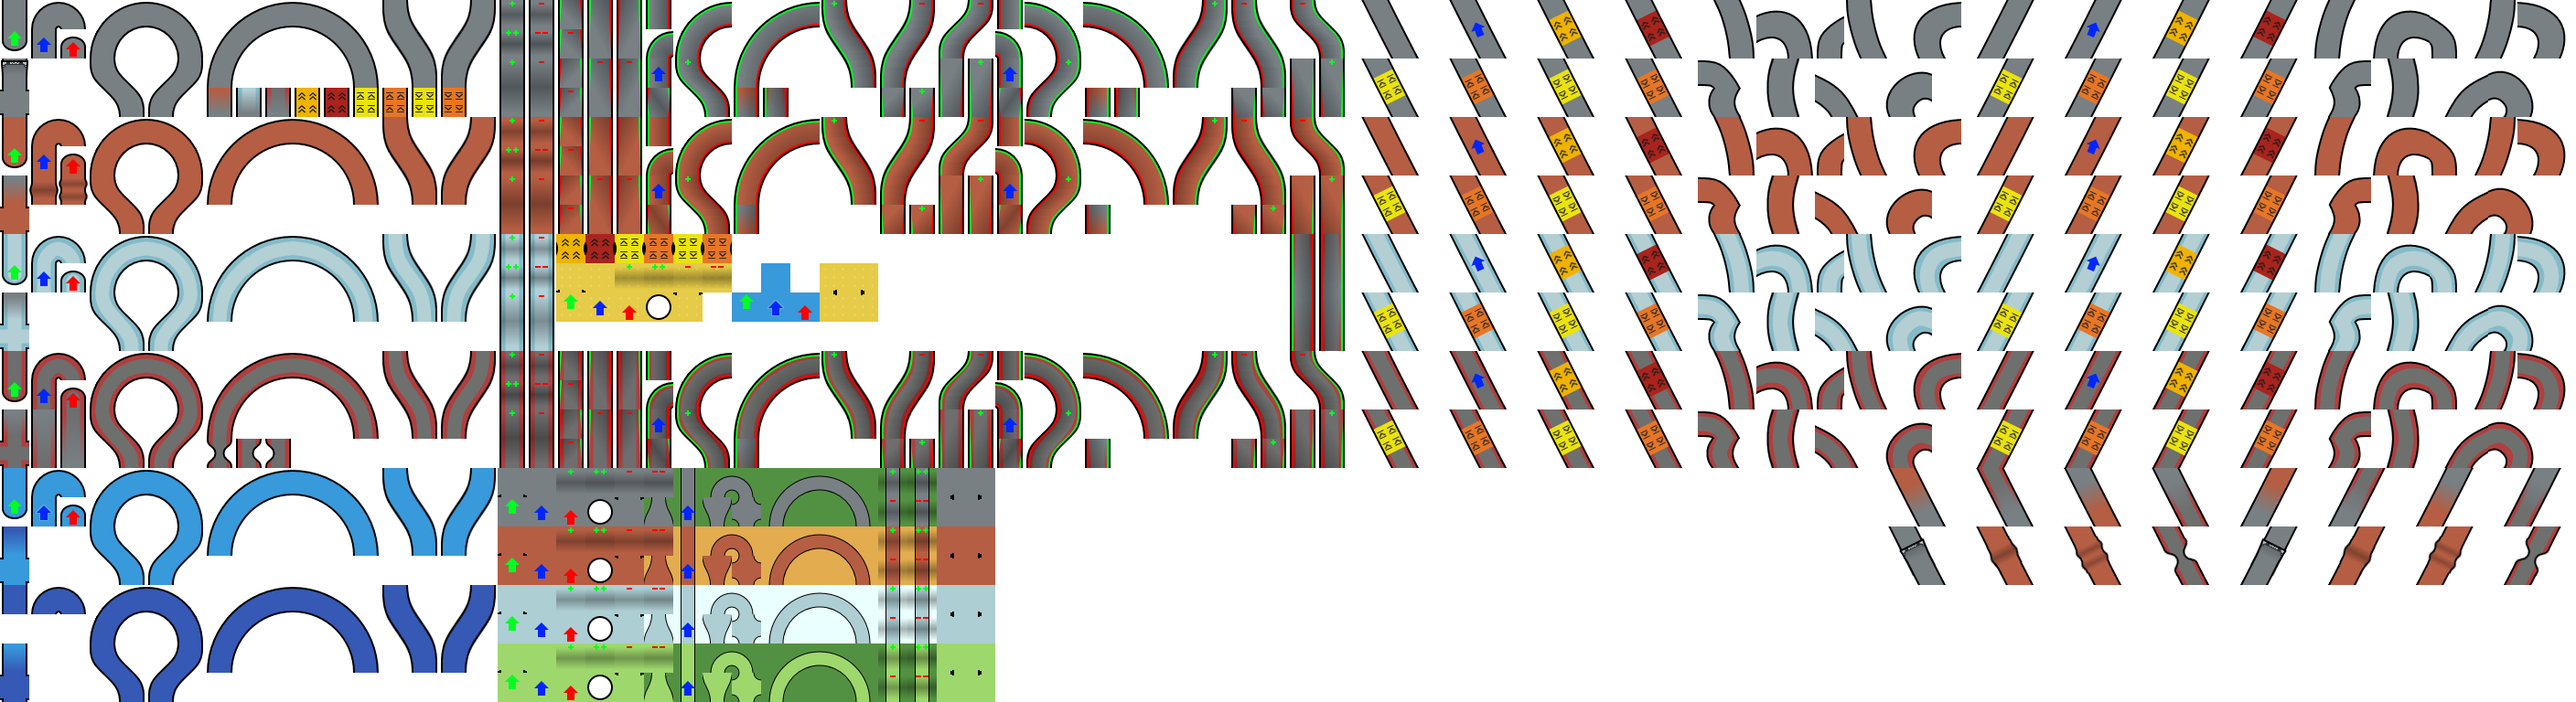
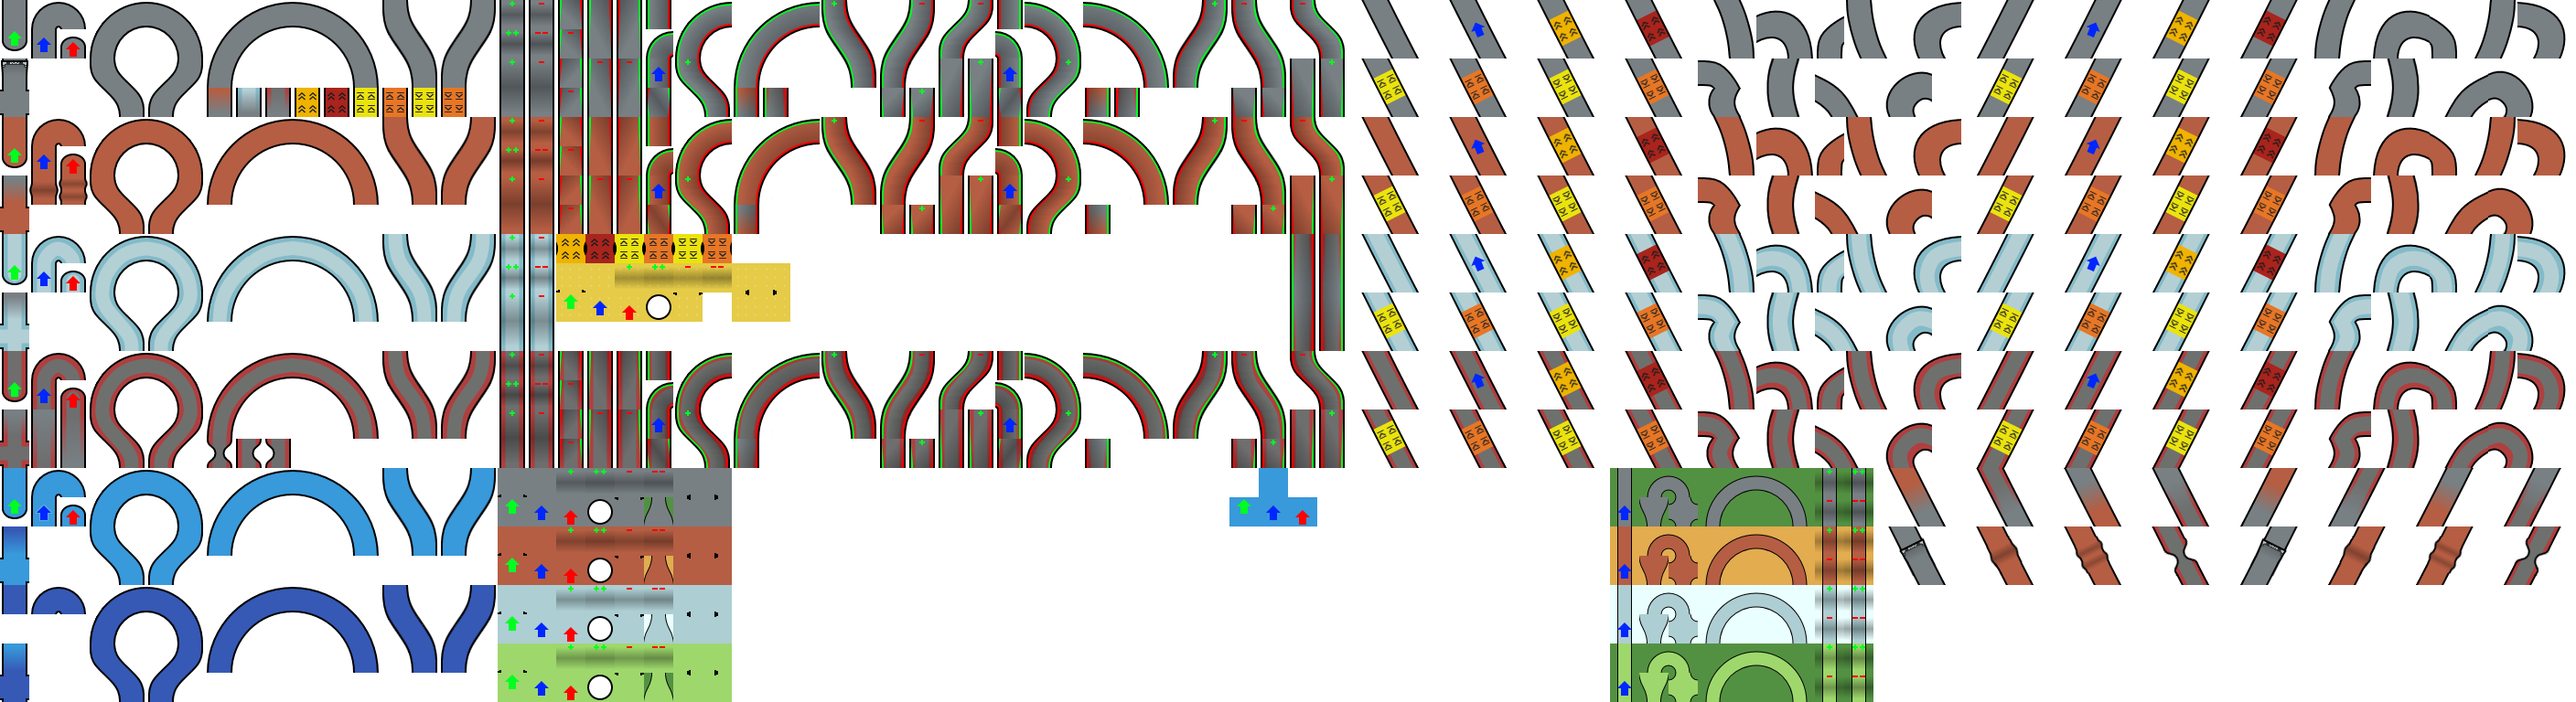
Reorganised block and shoulder pieces

diff --git a/piecetypes.js b/piecetypes.js
@@ -798,7 +798,7 @@ let gShoulderPieceTemplates =
 	straight:
 	{
 		tags: [ "straight" ],
-		imageOffset: new Vector2D(736, 512),
+		imageOffset: new Vector2D(1760, 512),
 		imageDimensions: new Vector2D(32, 32),
 		exitOffset: new Vector3D(0, -1, 0),
 		exitAngle: 0,
@@ -808,7 +808,7 @@ let gShoulderPieceTemplates =
 	cornerRight:
 	{
 		tags: [ "notAfterTurbo" ],
-		imageOffset: new Vector2D(768, 512),
+		imageOffset: new Vector2D(1792, 512),
 		imageDimensions: new Vector2D(32, 32),
 		exitOffset: new Vector3D(1, 0, 0),
 		exitAngle: Math.PI * 0.5,
@@ -816,7 +816,7 @@ let gShoulderPieceTemplates =
 	cornerLeft:
 	{
 		tags: [ "notAfterTurbo" ],
-		imageOffset: new Vector2D(800, 512),
+		imageOffset: new Vector2D(1824, 512),
 		imageDimensions: new Vector2D(32, 32),
 		exitOffset: new Vector3D(-1, 0, 0),
 		exitAngle: Math.PI * -0.5,
@@ -824,7 +824,7 @@ let gShoulderPieceTemplates =
 	checkpoint:
 	{
 		tags: [ "progress", "checkpoint" ],
-		imageOffset: new Vector2D(736, 544),
+		imageOffset: new Vector2D(1760, 544),
 		imageDimensions: new Vector2D(32, 32),
 		exitOffset: new Vector3D(0, -1, 0),
 		exitAngle: 0,
@@ -833,7 +833,7 @@ let gShoulderPieceTemplates =
 	},
 	curveRight:
 	{
-		imageOffset: new Vector2D(832, 512),
+		imageOffset: new Vector2D(1856, 512),
 		imageDimensions: new Vector2D(64, 64),
 		exitOffset: new Vector3D(2, -1, 0),
 		exitAngle: Math.PI * 0.5,
@@ -842,7 +842,7 @@ let gShoulderPieceTemplates =
 	},
 	curveLeft:
 	{
-		imageOffset: new Vector2D(896, 512),
+		imageOffset: new Vector2D(1920, 512),
 		imageDimensions: new Vector2D(64, 64),
 		exitOffset: new Vector3D(-2, -1, 0),
 		exitAngle: Math.PI * -0.5,
@@ -852,7 +852,7 @@ let gShoulderPieceTemplates =
 	rampUpLevelGentle:
 	{
 		tags: [ "ramp", "notAfterTurbo" ],
-		imageOffset: new Vector2D(960, 512),
+		imageOffset: new Vector2D(1984, 512),
 		imageDimensions: new Vector2D(32, 32),
 		exitOffset: new Vector3D(0, -1, 1),
 		exitAngle: 0,
@@ -863,7 +863,7 @@ let gShoulderPieceTemplates =
 	rampUpLevelSteep:
 	{
 		tags: [ "ramp", "notAfterTurbo" ],
-		imageOffset: new Vector2D(992, 512),
+		imageOffset: new Vector2D(2016, 512),
 		imageDimensions: new Vector2D(32, 32),
 		exitOffset: new Vector3D(0, -1, 2),
 		exitAngle: 0,
@@ -874,7 +874,7 @@ let gShoulderPieceTemplates =
 	rampDownLevelGentle:
 	{
 		tags: [ "ramp", "notAfterTurbo" ],
-		imageOffset: new Vector2D(960, 544),
+		imageOffset: new Vector2D(1984, 544),
 		imageDimensions: new Vector2D(32, 32),
 		exitOffset: new Vector3D(0, -1, -1),
 		exitAngle: 0,
@@ -885,7 +885,7 @@ let gShoulderPieceTemplates =
 	rampDownLevelSteep:
 	{
 		tags: [ "ramp", "notAfterTurbo" ],
-		imageOffset: new Vector2D(992, 544),
+		imageOffset: new Vector2D(2016, 544),
 		imageDimensions: new Vector2D(32, 32),
 		exitOffset: new Vector3D(0, -1, -2),
 		exitAngle: 0,
@@ -896,7 +896,7 @@ let gShoulderPieceTemplates =
 	crossroad:
 	{
 		tags: [ "crossroad" ],
-		imageOffset: new Vector2D(800, 544),
+		imageOffset: new Vector2D(1824, 544),
 		imageDimensions: new Vector2D(32, 32),
 		exitOffset: new Vector3D(0, -1, 0),
 		exitAngle: 0,
@@ -1688,7 +1688,7 @@ let gPieceTypes =
 		toRoadBlock:
 		{
 			tags: [ "transition" ],
-			imageOffset: new Vector2D(1024, 512),
+			imageOffset: new Vector2D(736, 512),
 			imageDimensions: new Vector2D(64, 32),
 			exitOffset: new Vector3D(-1, -1, 0),
 			exitAngle: 0,
@@ -1700,7 +1700,7 @@ let gPieceTypes =
 		toDirtBlock:
 		{
 			tags: [ "transition" ],
-			imageOffset: new Vector2D(1024, 576),
+			imageOffset: new Vector2D(736, 576),
 			imageDimensions: new Vector2D(64, 32),
 			exitOffset: new Vector3D(-1, -1, 0),
 			exitAngle: 0,
@@ -1709,10 +1709,22 @@ let gPieceTypes =
 			transitionTo: { material: "dirtBlock" },
 			renderAsBlock: true,
 		},
+		toIceBlock:
+		{
+			tags: [ "transition" ],
+			imageOffset: new Vector2D(736, 640),
+			imageDimensions: new Vector2D(64, 32),
+			exitOffset: new Vector3D(-1, -1, 0),
+			exitAngle: 0,
+			collisionOffset: new Vector3D(-0.5, 0, 0.5),
+			collisionExtents: new Vector3D(1, 0.5, 0.5),
+			transitionTo: { material: "iceBlock" },
+			renderAsBlock: true,
+		},
 		toGrassBlock:
 		{
 			tags: [ "transition" ],
-			imageOffset: new Vector2D(1024, 704),
+			imageOffset: new Vector2D(736, 704),
 			imageDimensions: new Vector2D(64, 32),
 			exitOffset: new Vector3D(-1, -1, 0),
 			exitAngle: 0,
@@ -1724,7 +1736,7 @@ let gPieceTypes =
 		toRubberBlock:
 		{
 			tags: [ "transition" ],
-			imageOffset: new Vector2D(896, 288),
+			imageOffset: new Vector2D(800, 288),
 			imageDimensions: new Vector2D(64, 32),
 			exitOffset: new Vector3D(-1, -1, 0),
 			exitAngle: 0,
@@ -1771,7 +1783,7 @@ let gPieceTypes =
 		toRoadBlock:
 		{
 			tags: [ "transition" ],
-			imageOffset: new Vector2D(1024, 512),
+			imageOffset: new Vector2D(736, 512),
 			imageDimensions: new Vector2D(64, 32),
 			exitOffset: new Vector3D(1, -1, 0),
 			exitAngle: 0,
@@ -1783,7 +1795,7 @@ let gPieceTypes =
 		toDirtBlock:
 		{
 			tags: [ "transition" ],
-			imageOffset: new Vector2D(1024, 576),
+			imageOffset: new Vector2D(736, 576),
 			imageDimensions: new Vector2D(64, 32),
 			exitOffset: new Vector3D(1, -1, 0),
 			exitAngle: 0,
@@ -1795,7 +1807,7 @@ let gPieceTypes =
 		toGrassBlock:
 		{
 			tags: [ "transition" ],
-			imageOffset: new Vector2D(1024, 704),
+			imageOffset: new Vector2D(736, 704),
 			imageDimensions: new Vector2D(64, 32),
 			exitOffset: new Vector3D(1, -1, 0),
 			exitAngle: 0,
@@ -1807,7 +1819,7 @@ let gPieceTypes =
 		toRubberBlock:
 		{
 			tags: [ "transition" ],
-			imageOffset: new Vector2D(896, 288),
+			imageOffset: new Vector2D(800, 288),
 			imageDimensions: new Vector2D(64, 32),
 			exitOffset: new Vector3D(1, -1, 0),
 			exitAngle: 0,
@@ -1957,7 +1969,7 @@ let gPieceTypes =
 		toRoadDiagLeft:
 		{
 			tags: [ "straight", "transition" ],
-			imageOffset: new Vector2D(1024, 544),
+			imageOffset: new Vector2D(736, 544),
 			imageDimensions: new Vector2D(64, 32),
 			exitOffset: new Vector3D(0, -1, 0),
 			exitAngle: 0,
@@ -1968,7 +1980,7 @@ let gPieceTypes =
 		toRoadDiagRight:
 		{
 			tags: [ "straight", "transition" ],
-			imageOffset: new Vector2D(1024, 544),
+			imageOffset: new Vector2D(736, 544),
 			imageDimensions: new Vector2D(64, 32),
 			exitOffset: new Vector3D(0, -1, 0),
 			exitAngle: 0,
@@ -1982,7 +1994,7 @@ let gPieceTypes =
 		toRoadBlock:
 		{
 			tags: [ "straight", "transition" ],
-			imageOffset: new Vector2D(768, 544),
+			imageOffset: new Vector2D(1792, 544),
 			imageDimensions: new Vector2D(32, 32),
 			exitOffset: new Vector3D(0, -1, 0),
 			exitAngle: 0,
@@ -2013,7 +2025,7 @@ let gPieceTypes =
 		toRoadDiagLeft:
 		{
 			tags: [ "straight", "transition" ],
-			imageOffset: new Vector2D(1024, 608),
+			imageOffset: new Vector2D(736, 608),
 			imageDimensions: new Vector2D(64, 32),
 			exitOffset: new Vector3D(0, -1, 0),
 			exitAngle: 0,
@@ -2024,7 +2036,7 @@ let gPieceTypes =
 		toRoadDiagRight:
 		{
 			tags: [ "straight", "transition" ],
-			imageOffset: new Vector2D(1024, 608),
+			imageOffset: new Vector2D(736, 608),
 			imageDimensions: new Vector2D(64, 32),
 			exitOffset: new Vector3D(0, -1, 0),
 			exitAngle: 0,
@@ -2038,7 +2050,7 @@ let gPieceTypes =
 		toDirtBlock:
 		{
 			tags: [ "straight", "transition" ],
-			imageOffset: new Vector2D(768, 608),
+			imageOffset: new Vector2D(1792, 608),
 			imageDimensions: new Vector2D(32, 32),
 			exitOffset: new Vector3D(0, -1, 0),
 			exitAngle: 0,
@@ -2069,7 +2081,7 @@ let gPieceTypes =
 		toRoadDiagLeft:
 		{
 			tags: [ "straight", "transition" ],
-			imageOffset: new Vector2D(1024, 672),
+			imageOffset: new Vector2D(736, 672),
 			imageDimensions: new Vector2D(64, 32),
 			exitOffset: new Vector3D(0, -1, 0),
 			exitAngle: 0,
@@ -2080,7 +2092,7 @@ let gPieceTypes =
 		toRoadDiagRight:
 		{
 			tags: [ "straight", "transition" ],
-			imageOffset: new Vector2D(1024, 672),
+			imageOffset: new Vector2D(736, 672),
 			imageDimensions: new Vector2D(64, 32),
 			exitOffset: new Vector3D(0, -1, 0),
 			exitAngle: 0,
@@ -2094,7 +2106,7 @@ let gPieceTypes =
 		toIceBlock:
 		{
 			tags: [ "straight", "transition" ],
-			imageOffset: new Vector2D(768, 672),
+			imageOffset: new Vector2D(1792, 672),
 			imageDimensions: new Vector2D(32, 32),
 			exitOffset: new Vector3D(0, -1, 0),
 			exitAngle: 0,
@@ -2125,7 +2137,7 @@ let gPieceTypes =
 		toRoadDiagLeft:
 		{
 			tags: [ "straight", "transition" ],
-			imageOffset: new Vector2D(1024, 736),
+			imageOffset: new Vector2D(736, 736),
 			imageDimensions: new Vector2D(64, 32),
 			exitOffset: new Vector3D(0, -1, 0),
 			exitAngle: 0,
@@ -2136,7 +2148,7 @@ let gPieceTypes =
 		toRoadDiagRight:
 		{
 			tags: [ "straight", "transition" ],
-			imageOffset: new Vector2D(1024, 736),
+			imageOffset: new Vector2D(736, 736),
 			imageDimensions: new Vector2D(64, 32),
 			exitOffset: new Vector3D(0, -1, 0),
 			exitAngle: 0,
@@ -2150,7 +2162,7 @@ let gPieceTypes =
 		toGrassBlock:
 		{
 			tags: [ "straight", "transition" ],
-			imageOffset: new Vector2D(768, 736),
+			imageOffset: new Vector2D(1792, 736),
 			imageDimensions: new Vector2D(32, 32),
 			exitOffset: new Vector3D(0, -1, 0),
 			exitAngle: 0,
@@ -2172,7 +2184,7 @@ let gPieceTypes =
 		toRoadDiagLeft:
 		{
 			tags: [ "straight", "transition" ],
-			imageOffset: new Vector2D(896, 320),
+			imageOffset: new Vector2D(800, 320),
 			imageDimensions: new Vector2D(64, 32),
 			exitOffset: new Vector3D(0, -1, 0),
 			exitAngle: 0,
@@ -2183,7 +2195,7 @@ let gPieceTypes =
 		toRoadDiagRight:
 		{
 			tags: [ "straight", "transition" ],
-			imageOffset: new Vector2D(896, 320),
+			imageOffset: new Vector2D(800, 320),
 			imageDimensions: new Vector2D(64, 32),
 			exitOffset: new Vector3D(0, -1, 0),
 			exitAngle: 0,
@@ -2343,7 +2355,7 @@ let InitialisePieceTypes = function()
 	CreatePieceTypesFromTemplate(gBlockPieceTemplates, "grassBlock", new Vector2D(0, 192));
 	CreatePieceTypesFromTemplate(gShoulderPieceTemplates, "grassShoulder", new Vector2D(0, 192));
 	CreatePieceTypesFromTemplate(gBlockPieceTemplates, "rubberBlock", new Vector2D(64, -224));
-	CreatePieceTypesFromTemplate(gBlockPieceTemplates, "waterShallowBlock", new Vector2D(256, -224), [ "ramp", "hole" ]);
+	CreatePieceTypesFromTemplate(gBlockPieceTemplates, "waterShallowBlock", new Vector2D(800, 0), [ "ramp", "hole" ]);
 
 	CreatePieceTypesFromTemplate(gDiagonalTransitionPieceTemplates, "roadFlat", new Vector2D(0, 0), undefined, 0, "road");
 	CreatePieceTypesFromTemplate(gDiagonalPieceTemplates, "roadDiagLeft", new Vector2D(0, 0), undefined, 0, "road");
